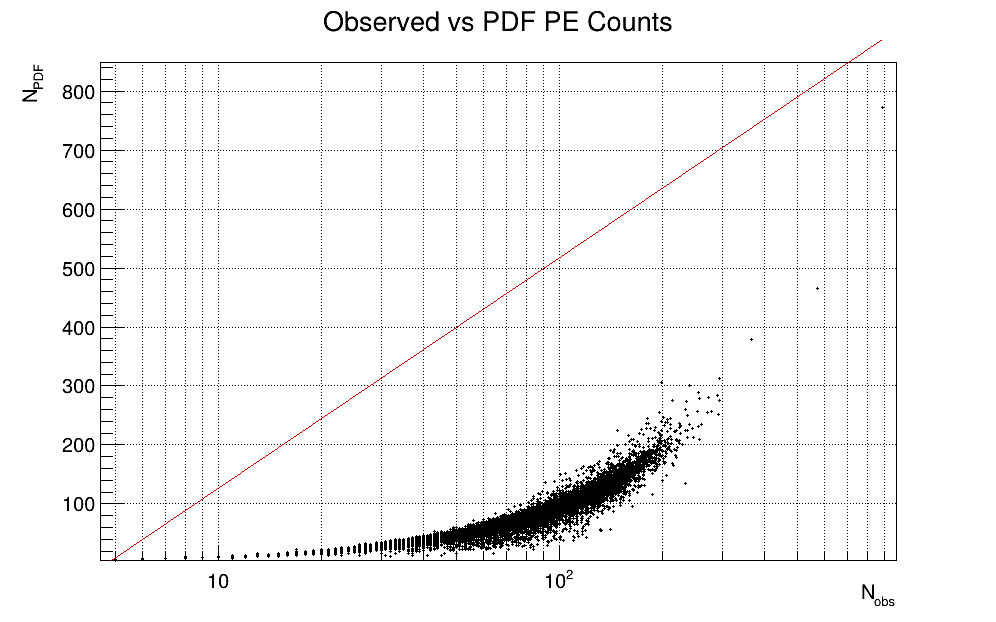
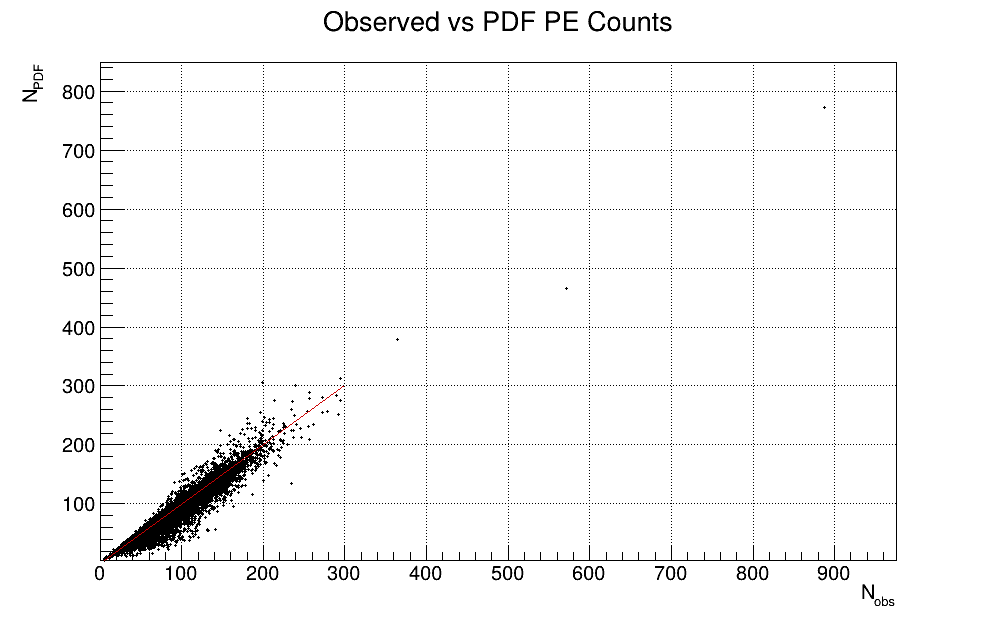
Plot newer results

diff --git a/src/Results_Comp.cpp b/src/Results_Comp.cpp
@@ -193,7 +193,7 @@ void plot_obs_exp_corr(const std::vector<WindowRow>& ws_all, const std::string& 
 
     TCanvas* c = new TCanvas("c_obs_pdf", "Observed vs PDF", 1000, 650);
     
-    c->SetLogx(1);
+    // c->SetLogx(1); c->SetLogy(1);
     
     TGraph* g = new TGraph();
     g->SetTitle("Observed vs PDF PE Counts;N_{obs};N_{PDF}");
@@ -217,6 +217,9 @@ void plot_obs_exp_corr(const std::vector<WindowRow>& ws_all, const std::string& 
     // y=x reference line
     double lo = std::min((double)minObs, minExp);
     double hi = std::max((double)maxObs, maxExp);
+
+    hi = std::min(hi, 300.0); // cut-off
+
     TLine* diag = new TLine(lo, lo, hi, hi);
     diag->SetLineStyle(1);
     diag->SetLineColor(kRed+1);
@@ -570,7 +573,7 @@ static void plot_comparisons(const std::vector<PulseRow>& pulse,
             if (ww_max <= ww_min) ww_max = ww_min + 1.0;
             const int nbins = 50;
             for (size_t i=0;i<segs.size();++i) {
-                c->cd((int)i+1); gPad->SetGrid();
+                c->cd((int)i+1); gPad->SetGrid(); gPad->SetLogy(1);
                 const auto& seg = segs[i];
                 auto h_ww = new TH1D(("h_ww_"+seg).c_str(),
                                       ("Pulse Window Width (seg "+seg+");ww;Counts").c_str(),

diff --git a/src/PEcoincidences2022.C b/src/PEcoincidences2022.C
@@ -19,6 +19,7 @@
 #include <TH1I.h>
 #include <numeric>
 #include <set>
+#include <limits>
 
 using json = nlohmann::json;
 using namespace std;
@@ -266,6 +267,10 @@ void getunloadsbackgrounds(CoincidenceList cl, string runnum, double avgkuval, d
     ofstream thisfile;
     string outputfile = "./output/coincidences/CoincRun" + runnum + "_" + to_string(threshold) + "PEthreshold.csv";
     thisfile.open(outputfile, fstream::app);
+
+	thisfile.setf(std::ios::fixed, std::ios::floatfield);
+	thisfile << std::setprecision(9);
+
     tcoinc->GetEntry(0);
     //cout << realtime << "????" << endl;
 	

diff --git a/src/Pulse_Analysis.cpp b/src/Pulse_Analysis.cpp
@@ -217,6 +217,13 @@ void analysis_setup(const vector<EventList> run_data, json params, string output
 		cerr << "Error opening output file: " << pulses_file << ", or: " << windows_file << endl;
 		return;
 	}
+
+	out.setf(std::ios::fixed, std::ios::floatfield);
+	ws.setf(std::ios::fixed, std::ios::floatfield);
+
+	out << std::setprecision(9);
+	ws << std::setprecision(9);
+
 	out << "Segment, Time (s), PE, Window Width, isFineBinWidth, Event\n";
 	ws << "Segment,Window,Start,BinWidth_us,nPulses,neglogL,N_obs,N_model\n";
 
